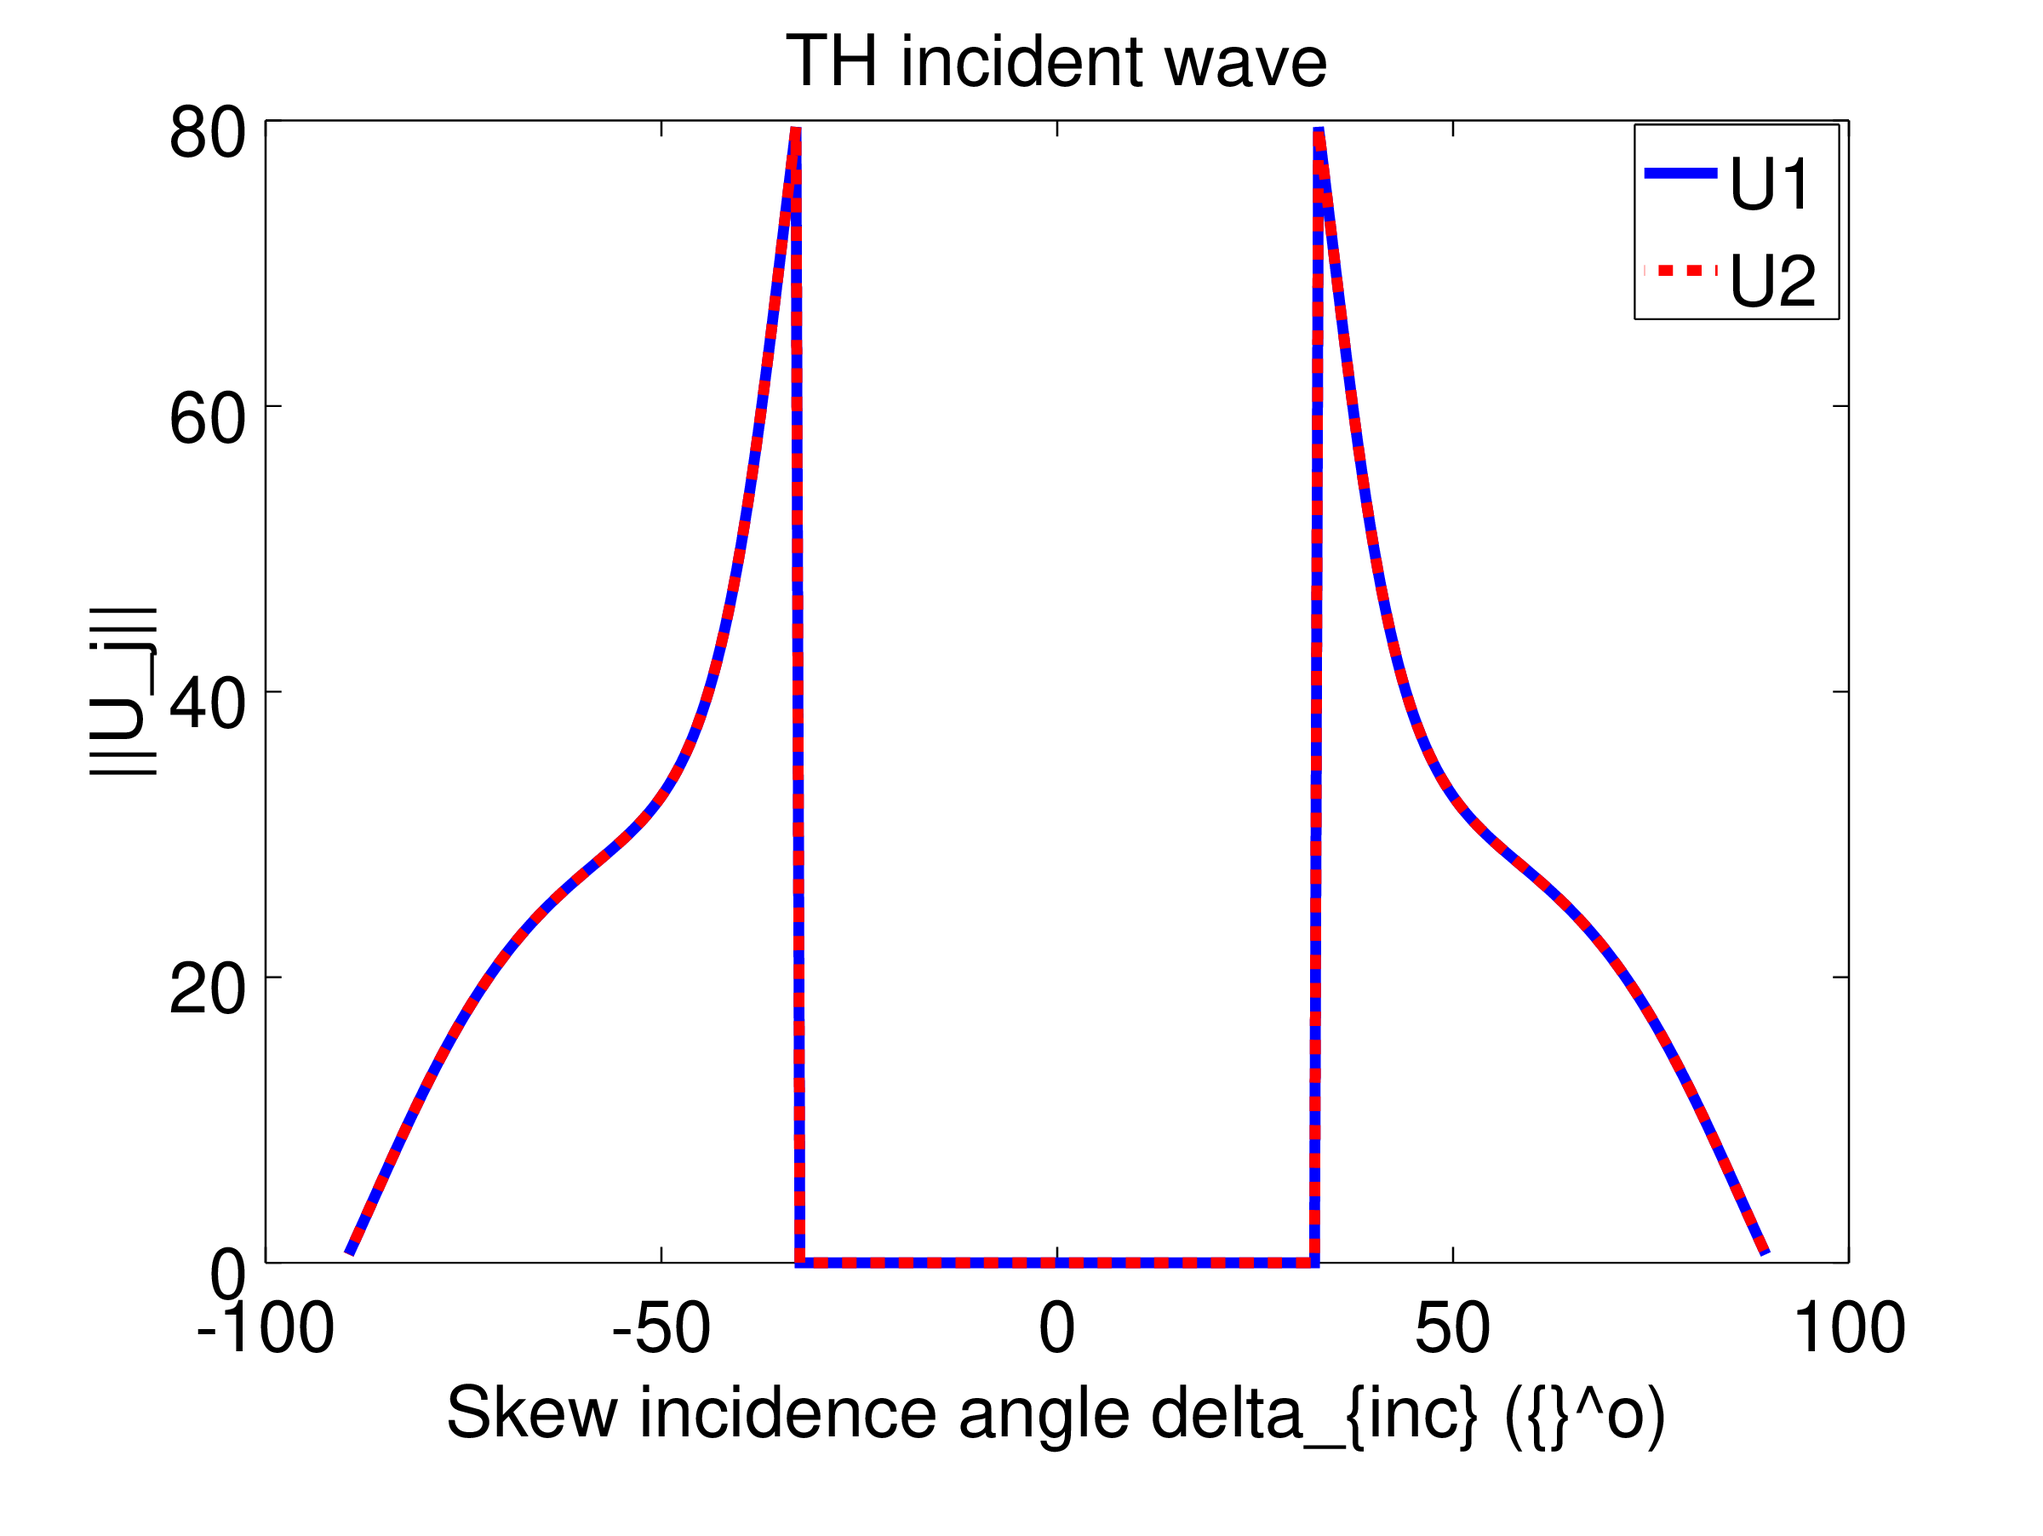
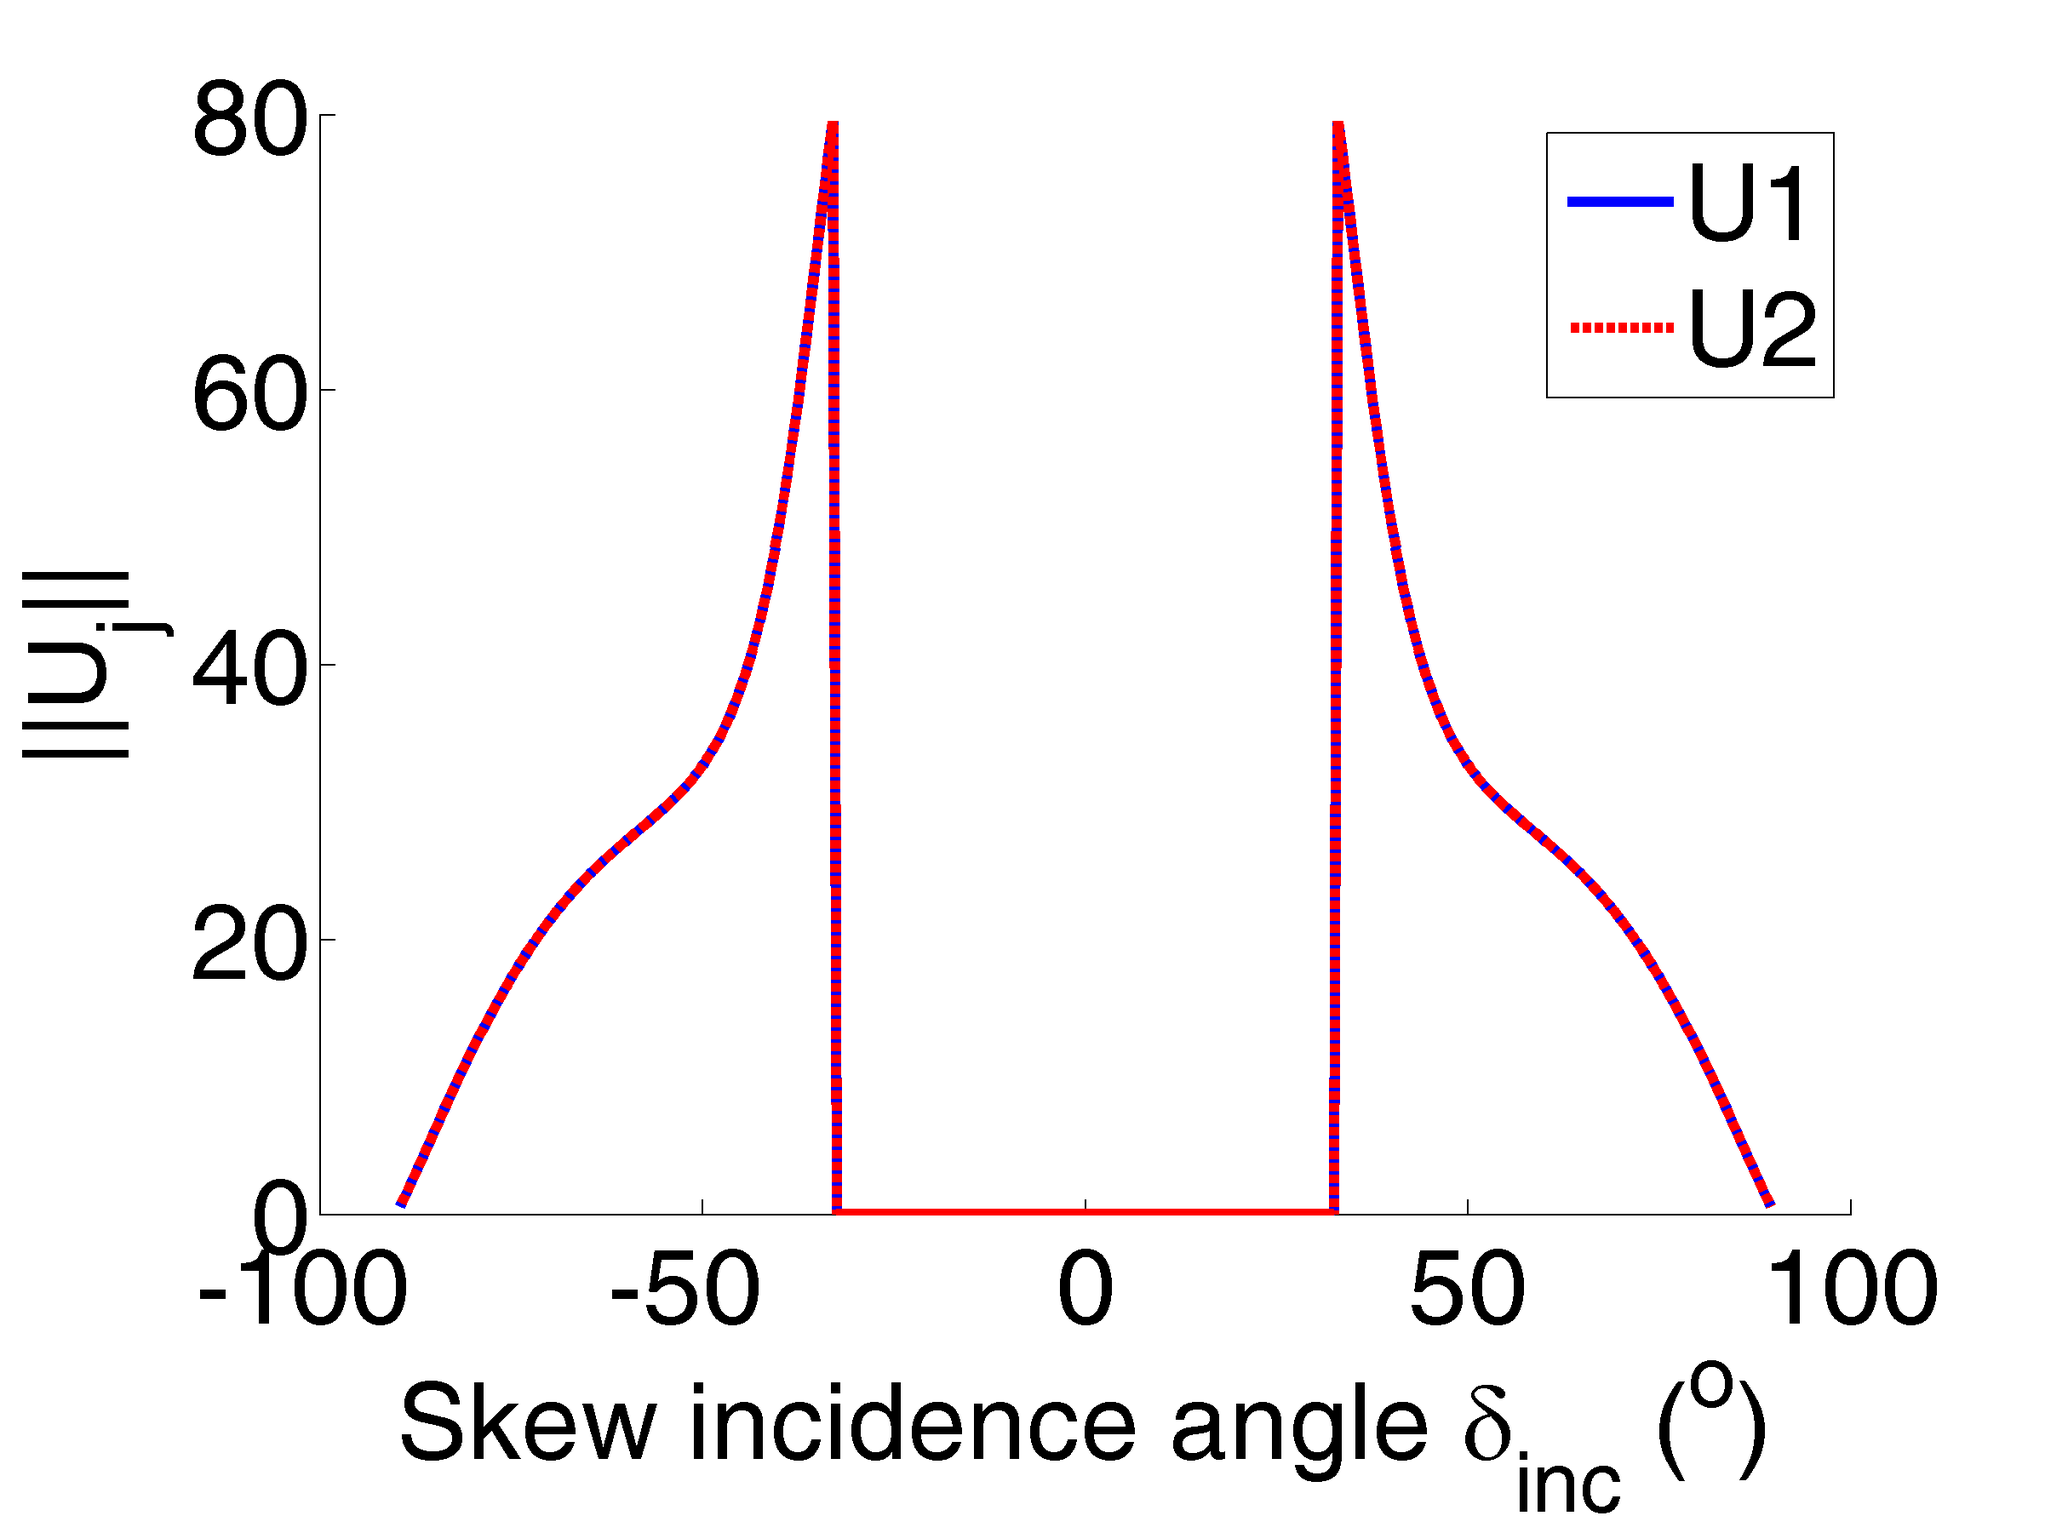
redid U1 images

diff --git a/en-arborescence/corps/chapter4.tex b/en-arborescence/corps/chapter4.tex
@@ -1652,42 +1652,41 @@ The spectral functions are evaluated numerically using the semi-analytical schem
 \begin{equation}
 a_k=1.001+0.05e^{k\frac{\log 10}{4}}-1, \hspace{3em} b_k=a_k-0.1i, \hspace{3em} 1\leq k\leq20
 \end{equation}
-And in the case where $\crit$, meaning for the case of an incident transversal wave with $|\delta_inc|>\delta_c$ (with $\delta_c \approx 33^o$ in steel), the Galerkin parameters are set to
+And in the case where $\crit$, meaning for the case of an incident transversal wave with $|\delta_{inc}|>\delta_c$ (with $\delta_c \approx 33^o$ in steel), the Galerkin parameters are set to
 \begin{equation}
 \begin{matrix}
 a_k=1.001+0.05e^{k\frac{\log 10}{4}}-1, & b_k=a_k-0.1i, & 1\leq k\leq10\\
 a_k=-i\lbrack 1.001+0.05e^{(k-10)\frac{\log 10}{4}}-1\rbrack, & b_k=a_k+0.1, & 11\leq k\leq20
 \end{matrix}
 \end{equation}
-when $\crit$.
 
 Finally, the solution is rendered accurate in the entire complex domain by applying the recursive procedure called the propagation of the solution described in subsection \ref{C4:propag}.
 
 Following these steps, the diffraction coefficients have been computed using \eqref{C4:Dbeta} and tested numerically.
 
 \subsection{Comparison to the 2D code}
-The first test on the 3D code is to check that when $\delta_{\alpha}=0$, the results obtained using the 3D code are the same as those obtained using the 2D code presented in the previous chapter and which has been validated numerically and experimentally (see sections \ref{C3:numval} and \ref{C3:expval}). This has been checked for the theoretical computations and must also be verified numerically.
+The first test on the 3D code is to check that when $\delta_{\alpha}=0$, the results obtained using the 3D code are the same as those obtained using the 2D code presented and validated numerically (see section \ref{C3:numval}) and experimentally (see section \ref{C3:expval}) in the previous chapter. This has been checked for the theoretical computations and must also be verified numerically.
 
-The spectral functions are evaluated at $\xi=\nuti_L\cos\theta -i10^{-8}$ (a small negative imaginary part is added to ensure that the recursive equations \eqref{C4:recur} are valid) every $0,5^o$ for $0\leq\theta\leq \varphi$ and for $\delta_{\alpha} =0^o$,  using the 3D code. The L and TH diffraction coefficients are computed using \eqref{C4:Dbeta}, for an elastic wave propagating in a steel wedge ($c_L=5700m.s^{-1}, \, \, c_T=3200m.s^{-1}$). For the 3D problem, TH waves defined by \eqref{C4:ivec} correspond to 2D T waves. The results are compared to the diffraction coefficients obtained using the 2D elastic code presented in the previous chapter.
+The spectral functions are evaluated at $\xi=\nuti_L\cos\theta -i10^{-6}$ (a small negative imaginary part is added to ensure that the recursive equations \eqref{C4:recur} are valid) every $0,5^o$ for $0\leq\theta\leq \varphi$ and at $\delta_{\alpha} =0^o$,  using the 3D code. The L and TH diffraction coefficients are computed using \eqref{C4:Dbeta}, for an elastic wave propagating in a steel wedge ($c_L=5700m.s^{-1}, \, \, c_T=3200m.s^{-1}$). For the 3D problem, TH waves defined by \eqref{C4:ivec} correspond to the T waves of the 2D problem. The results are compared to the diffraction coefficients obtained using the 2D elastic code presented in the previous chapter.
 
 \begin{figure}
 \centering
-    \begin{subfigure}[b]{0.44\textwidth}
+    \begin{subfigure}[b]{0.49\textwidth}
         \includegraphics[width=\textwidth]{images/chapter4/XpropL_140_70_0_L.png}
         \caption{Diffracted and incident L waves.}
         \label{C4:DLL_14070}
     \end{subfigure}  
-    \begin{subfigure}[b]{0.44\textwidth}
+    \begin{subfigure}[b]{0.49\textwidth}
         \includegraphics[width=\textwidth]{images/chapter4/XpropTH_140_70_0_L.png}
         \caption{Diffracted T wave and incident L wave.}
         \label{C4:DLT_14070}
      \end{subfigure}   
-     \begin{subfigure}[b]{0.44\textwidth}
+     \begin{subfigure}[b]{0.49\textwidth}
         \includegraphics[width=\textwidth]{images/chapter4/XpropL_140_70_0_TH.png}
         \caption{Diffracted L wave and incident T wave.}
         \label{C4:DTL_14070}
     \end{subfigure}
-    \begin{subfigure}[b]{0.44\textwidth}
+    \begin{subfigure}[b]{0.49\textwidth}
         \includegraphics[width=\textwidth]{images/chapter4/XpropTH_140_70_0_TH.png}
         \caption{Diffracted and incident T waves.}
         \label{C4:DTT_14070}
@@ -1700,22 +1699,22 @@ Fig.~\ref{C4:14070} shows the absolute value of the diffraction coefficients obt
 
 \begin{figure}
 \centering
-    \begin{subfigure}[b]{0.44\textwidth}
+    \begin{subfigure}[b]{0.49\textwidth}
         \includegraphics[width=\textwidth]{images/chapter4/XpropL_250_65_0_L.png}
         \caption{Diffracted and incident L waves.}
         \label{C4:DLL_25065}
     \end{subfigure}  
-    \begin{subfigure}[b]{0.44\textwidth}
+    \begin{subfigure}[b]{0.49\textwidth}
         \includegraphics[width=\textwidth]{images/chapter4/XpropTH_250_65_0_L.png}
         \caption{Diffracted T wave and incident L wave.}
         \label{C4:DLT_25065}
      \end{subfigure}   
-     \begin{subfigure}[b]{0.44\textwidth}
+     \begin{subfigure}[b]{0.49\textwidth}
         \includegraphics[width=\textwidth]{images/chapter4/XpropL_250_65_0_TH.png}
         \caption{Diffracted L wave and incident T wave.}
         \label{C4:DTL_25065}
     \end{subfigure}
-    \begin{subfigure}[b]{0.44\textwidth}
+    \begin{subfigure}[b]{0.49\textwidth}
         \includegraphics[width=\textwidth]{images/chapter4/XpropTH_250_65_0_TH.png}
         \caption{Diffracted and incident T waves.}
         \label{C4:DTT_25065}
@@ -1726,20 +1725,20 @@ Fig.~\ref{C4:14070} shows the absolute value of the diffraction coefficients obt
 
 Fig.~\ref{C4:25065} shows the absolute value of the diffraction coefficients obtained using the 2D and 3D \acrshort{sf} codes for a wedge of angle $\varphi=250^o$ illuminated by a wave incident with an angle $\theta_{inc}=65^o$. In Figs.~\ref{C4:DLL_25065} and \ref{C4:DTL_25065}, representing L diffraction coefficients, the thick blue line represents the results obtained using the 2D code and the dashed red line represents the results obtained using the 3D code. In Figs.~\ref{C4:DLT_25065} and \ref{C4:DTT_25065}, representing T diffraction coefficients, the thick blue line represents the results obtained using the 2D code and the dashed green line represents results obtained using the 3D code.
 
-In all of these cases, the 2D and 3D plots are perfectly overlapping. When $\delta_{\alpha}=0^o$, the 3D code yields exactly the same results as the 2D code, which is in accord with the theoretical computations. This validates the computation of the "2D terms" (meaning the terms that are not canceled by setting $\delta_{\alpha}=0^o$)of the 3D code. The following numerical test, comparison of the 3D elastic code to Sommerfeld's analytical expression for an acoustic wave, validates a different set of terms computed by the spectral functions method.
+In all of these figures, the 2D and 3D plots are perfectly overlapping. When $\delta_{\alpha}=0^o$, the 3D code yields exactly the same results as the 2D code, which is in accord with the theoretical computations. This validates the computation of the "2D terms" (meaning the terms that are not canceled by setting $\delta_{\alpha}=0^o$) of the 3D code. The following numerical test, comparison of the 3D elastic code to Sommerfeld's analytical expression for an acoustic wave, validates a different set of terms computed by the spectral functions method.
 
 \subsection{Acoustic limit}
 In the second chapter of this manuscript, we have seen that Sommerfeld \cite{Sommerfeld} provides an analytical expression for the \acrshort{gtd} diffraction coefficient in the case of an acoustic wave incident on a wedge with Dirichlet or Neumann boundaries. This expression is still valid for 3D incidences, and the expression is provided by Keller \cite{GTD}. In the case of a wedge with Dirichlet boundaries, we have :
 \begin{equation}
 \begin{split}
-v^{diff}(r,\theta)=D^{(Dir)}(\theta)\dfrac{e^{-ir}}{\sqrt{r\cos\delta_{\alpha}}}
+v^{ac,diff}(r,\theta)=D^{Dir}(\theta)\dfrac{e^{-ir}}{\sqrt{r\cos\delta_{\alpha}}}
 \end{split}
 \end{equation}
-where $v^{diff}$ is the acoustic diffracted field and $D^{(Dir)}$, is given by \eqref{GTDCoeff_Dir}. For an acoustic wave, the diffraction coefficient does not depend on the incident skew angle $\delta_{\alpha}$. The dependency of the diffracted field with respect to this parameter is fully contained in the term $(r\cos\delta_{\alpha})^{-1/2}$.
+where $v^{ac,diff}$ is the acoustic diffracted field and $D^{Dir}$, is given by \eqref{GTDCoeff_Dir}. For an acoustic wave, the diffraction coefficient does not depend on the incident skew angle $\delta_{\alpha}$. The dependency of the diffracted field with respect to this parameter is fully contained in the term $(r\cos\delta_{\alpha})^{-1/2}$.
 
-The case of an acoustic wave incident on a wedge with Dirichlet boundary conditions can be mimicked using the elastic code. By setting $c_L=1$ and $c_T \rightarrow 0$ and considering incident L waves, the L diffraction coefficient should behaves like the diffraction coefficient of an acoustic wave. 
+The case of an acoustic wave incident on a wedge with Dirichlet boundary conditions can be mimicked using the elastic code. By setting $c_L=1$ and $c_T \rightarrow 0$ and considering incident L waves, the L diffraction coefficient behaves like the diffraction coefficient of an acoustic wave. 
 
-In the 3D elastic code, the wave velocities are set to $c_L=1 m.s^{-1}$ and $c_T=10^{-7} m.s^{-1}$ and the incident wave is longitudinal. The spectral functions are evaluated at $\xi=\nuti_L\cos\theta -i10^{-8}$ (a small negative imaginary part is added to ensure that the recursive equations \eqref{C4:recur} are valid) every $0,5^o$ for $0\leq\theta\leq \varphi$ and for $-90^o\leq \delta_{\alpha} \leq 90^o$ and the L diffraction coefficient is computed using \eqref{C4:Dbeta}. The results are compared to the analytical expression of the Sommerfeld diffraction coefficients for a wedge with Dirichlet boundary conditions.
+In the 3D elastic code, the wave velocities are set to $c_L=1 m.s^{-1}$ and $c_T=10^{-7} m.s^{-1}$ and the incident wave is longitudinal. The spectral functions are evaluated at $\xi=\nuti_L\cos\theta -i10^{-6}$ every $0,5^o$ for $0\leq\theta\leq \varphi$ and for $-90^o\leq \delta_{\alpha} \leq 90^o$ and the L diffraction coefficient is deduced using \eqref{C4:Dbeta}. The results are compared to the analytical expression of the Sommerfeld diffraction coefficients for a wedge with Dirichlet boundary conditions.
 
 \begin{figure}
 \centering
@@ -1757,7 +1756,7 @@ In the 3D elastic code, the wave velocities are set to $c_L=1 m.s^{-1}$ and $c_T
 \label{C4:ac16040}
 \end{figure}
 
-Fig.~\ref{C4:ac16040} shows the absolute value of the diffraction coefficient obtained using the \acrshort{sf} code (Fig.~\ref{C4:acSF16040}) and with Sommerfeld's analytical expression (Fig.~\ref{C4:Som16040}) for a wave incident with an angle $\theta_{\alpha}=40^o$ on a wedge of angle $\varphi=160^o$. These are computed for various incident skew angles $\delta_{\alpha}$ to check that the \acrshort{sf} diffraction coefficient is independent of this parameter, as it should be in the acoustic case. The horizontal axis corresponds to the observation angle $\theta$, the vertical axis corresponds to the incident skew angle $\delta_{\alpha}$ and the magnitude of the diffraction coefficients is represented in color in the $(\theta,\delta_{\alpha})$ plane. Both figures appear to be identical and are invariant by vertical translation (meaning that the coefficients do not depend on the angle $\delta_{\alpha}$). The diffraction coefficients can therefore be plotted for a single skew angle, without loss of generality. 
+Fig.~\ref{C4:ac16040} shows the absolute value of the diffraction coefficient obtained using the \acrshort{sf} code (Fig.~\ref{C4:acSF16040}) and with Sommerfeld's analytical expression (Fig.~\ref{C4:Som16040}) for a wave incident with an angle $\theta_{inc}=40^o$ on a wedge of angle $\varphi=160^o$. Fig.~\ref{C4:ac280240} shows the absolute value of the diffraction coefficient obtained using the \acrshort{sf} code (Fig.~\ref{C4:acSF280240}) and with Sommerfeld's analytical expression (Fig.~\ref{C4:Som280240}) for a wave incident with an angle $\theta_{inc}=240^o$ on a wedge of angle $\varphi=280^o$. In both cases, the diffraction coefficients are computed for various incident skew angles $\delta_{\alpha}$ to check that the \acrshort{sf} diffraction coefficient is independent of this parameter, as it should be in the acoustic case. The horizontal axis corresponds to the observation angle $\theta$, the vertical axis corresponds to the incident skew angle $\delta_{\alpha}$ and the magnitude of the diffraction coefficients is represented in color in the $(\theta,\delta_{\alpha})$ plane. For both wedges, the figures representing the \acrshort{sf} diffraction coefficients and those representing the Sommerfeld diffraction coefficients appear to be identical and are invariant by vertical translation (meaning that the coefficients do not depend on the angle $\delta_{\alpha}$). The diffraction coefficients can therefore be plotted for a single skew angle, without loss of generality. 
 
 \begin{figure}
 \centering
@@ -1775,7 +1774,7 @@ Fig.~\ref{C4:ac16040} shows the absolute value of the diffraction coefficient ob
 \label{C4:ac280240}
 \end{figure}
 
-Fig.~\ref{C4:ac280240} shows the absolute value of the diffraction coefficient obtained using the \acrshort{sf} code (Fig.~\ref{C4:acSF280240}) and with Sommerfeld's analytical expression (Fig.~\ref{C4:Som280240}) for a wave incident with an angle $\theta_{\alpha}=240^o$ on a wedge of angle $\varphi=280^o$. These are computed for various incident skew angles $\delta_{\alpha}$ to check that the \acrshort{sf} diffraction coefficient is independent of this parameter, as it should be in the acoustic case. The horizontal axis corresponds to the observation angle $\theta$, the vertical axis corresponds to the incident skew angle $\delta_{\alpha}$ and the magnitude of the diffraction coefficients is represented in color in the $(\theta,\delta_{\alpha})$ plane. Both figures appear to be identical and are invariant by vertical translation (meaning that the coefficients do not depend on the angle $\delta_{\alpha}$). The diffraction coefficients can therefore be plotted for a single skew angle, without loss of generality. 
+%Fig.~\ref{C4:ac280240} shows the absolute value of the diffraction coefficient obtained using the \acrshort{sf} code (Fig.~\ref{C4:acSF280240}) and with Sommerfeld's analytical expression (Fig.~\ref{C4:Som280240}) for a wave incident with an angle $\theta_{inc}=240^o$ on a wedge of angle $\varphi=280^o$. These are computed for various incident skew angles $\delta_{\alpha}$ to check that the \acrshort{sf} diffraction coefficient is independent of this parameter, as it should be in the acoustic case. The horizontal axis corresponds to the observation angle $\theta$, the vertical axis corresponds to the incident skew angle $\delta_{\alpha}$ and the magnitude of the diffraction coefficients is represented in color in the $(\theta,\delta_{\alpha})$ plane. Both figures appear to be identical and are invariant by vertical translation (meaning that the coefficients do not depend on the angle $\delta_{\alpha}$). The diffraction coefficients can therefore be plotted for a single skew angle, without loss of generality. 
 
 \begin{figure}
 \centering
